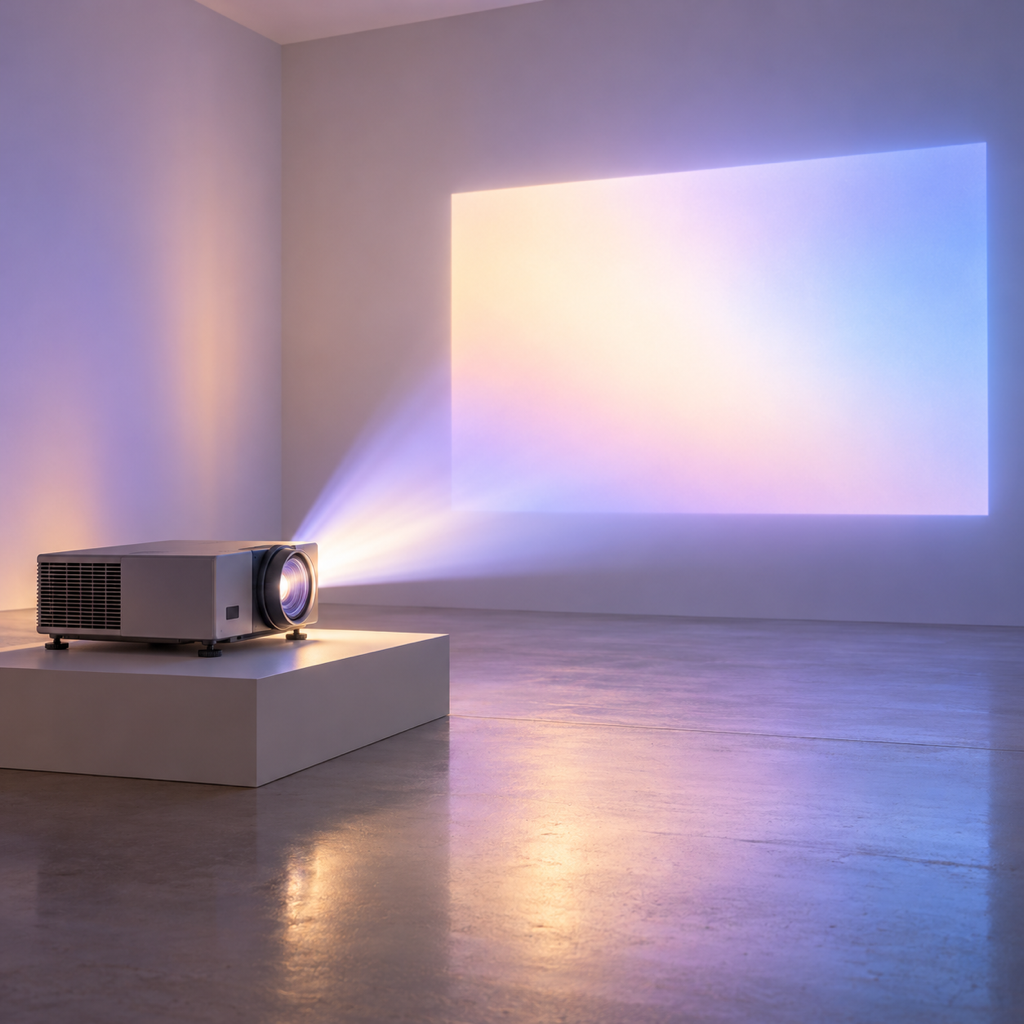
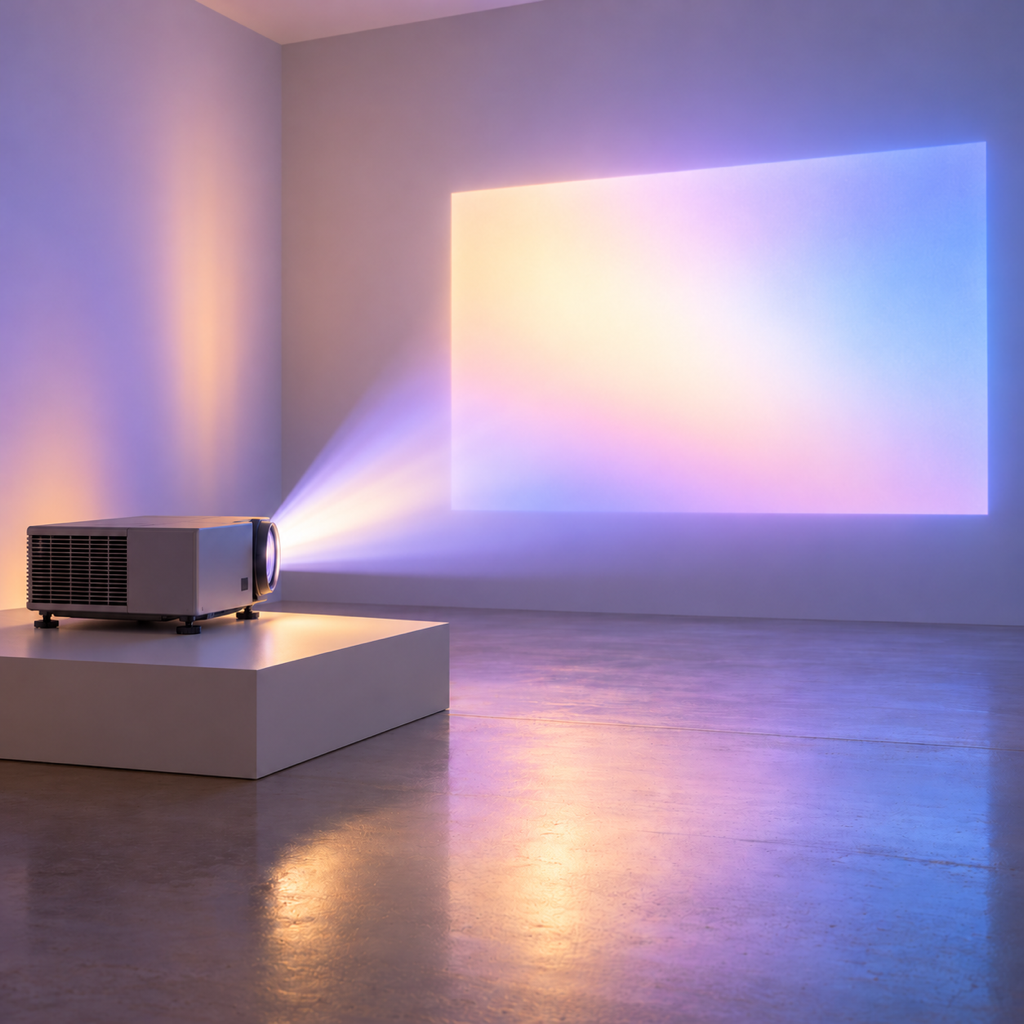
Correct FireWire800 from photo and align projector beam with lens

diff --git a/images/CREDITS.md b/images/CREDITS.md
@@ -57,9 +57,9 @@ listed in [`ROSTER.md`](ROSTER.md); none is a reproduction of the original artwo
 | 30-thunderbolt-1-2-cable.png | OpenAI built-in image generation | 2026-10-26 | No; visual feature check only |
 
 | 31-firewire-400.png | OpenAI built-in image generation | 2026-10-26 | No; visual feature check only |
-| 32-firewire-800.png | OpenAI built-in image generation | 2026-10-26 | No; visual feature check only |
+| 32-firewire-800.png | OpenAI built-in image generation; photo-based correction | 2026-10-26 | Compared with instructor photo; instructor review pending |
 | 35-micro-hdmi.png | OpenAI built-in image generation | 2026-10-26 | No; visual feature check only |
-| 44-projector.png | OpenAI built-in image generation | 2026-10-26 | No; visual feature check only |
+| 44-projector.png | OpenAI built-in image generation; optical-direction correction | 2026-10-26 | Lens/beam alignment visually checked; instructor review pending |
 
 ## 📷 Real reference photos (`images/photos/`)
 

diff --git a/docs/visual-checks.md b/docs/visual-checks.md
@@ -144,3 +144,9 @@ Final files1024x1024. No visible text or logos; bolt exception used only on29/30
 | 44 | Projector body, lens, beam | Recognizable projector, one lens and a beam onto a luminous wall. |
 
 All44 roster entries now have1024x1024 PNGs, alt text, art notes and credit records. Complete coverage does not imply instructor approval of every connector geometry. Reference photos remain separately sourced.
+
+## FireWire800 and projector corrections
+
+32: earlier broad stepped opening and thick gold contacts rejected. Connector rebuilt against instructor photo: narrow dark nose, thin internal frame, recessed keyed contact block. Visual comparison performed; exact internal contact assignment not certified.
+
+44: projector orientation adjusted to show lens as a side-facing ellipse aligned with forward beam; supersedes earlier lens-facing-viewer image. Both corrections await instructor review.
